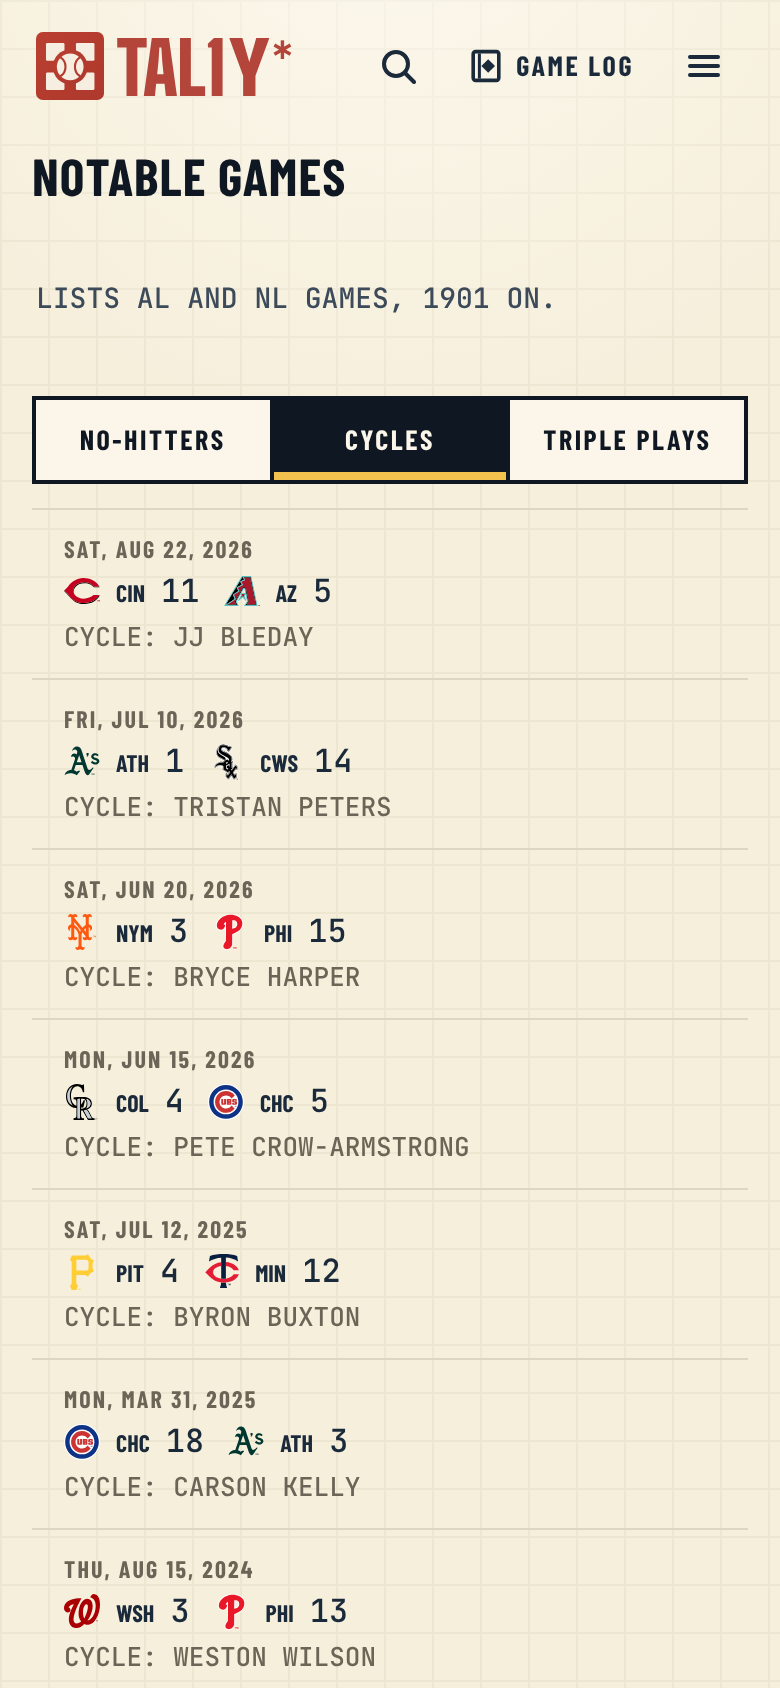
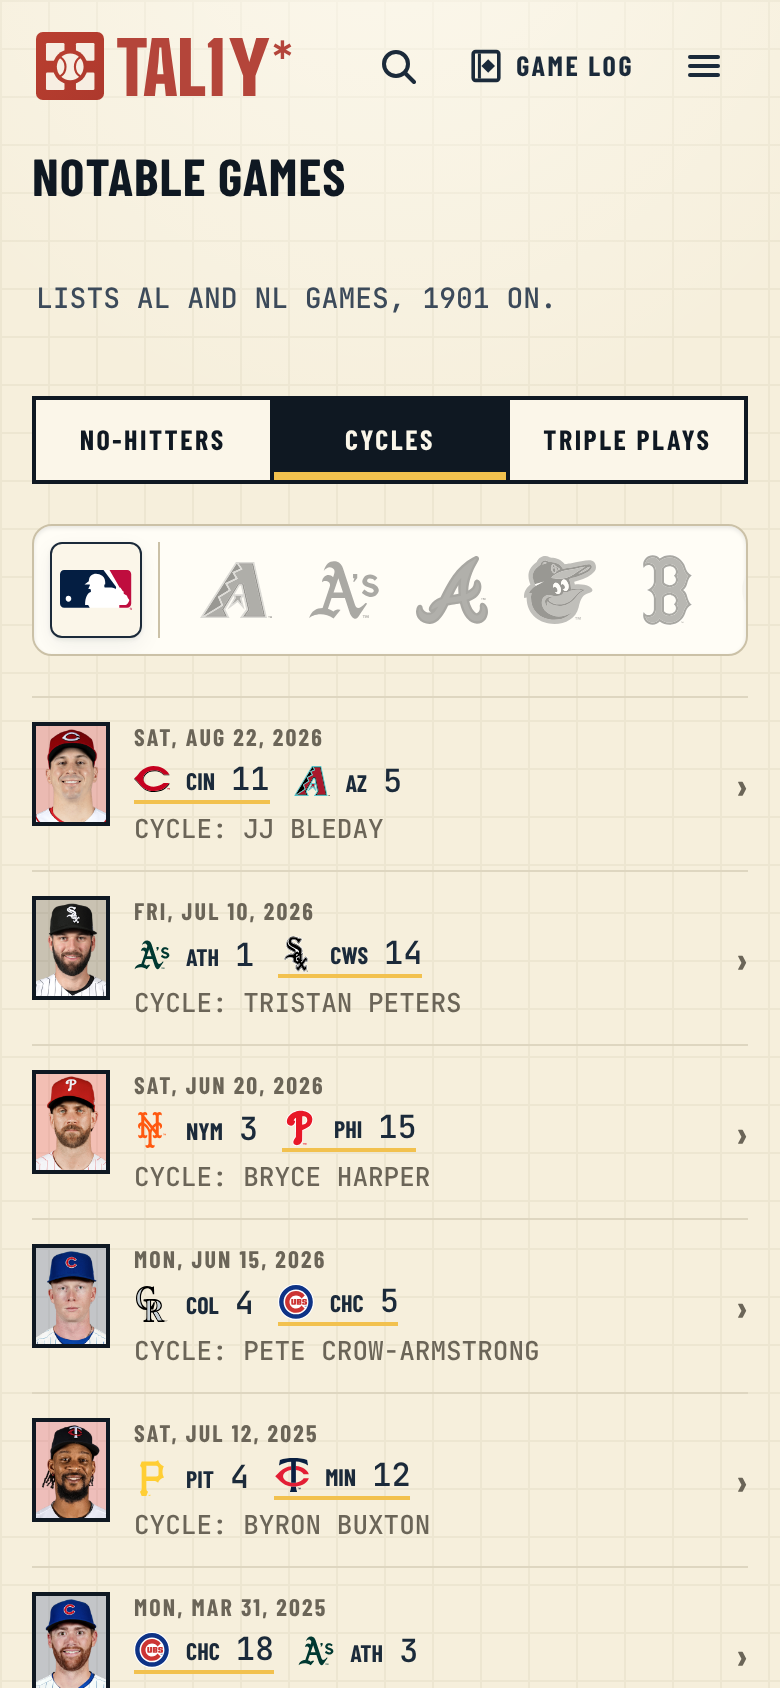
Notable games: one framed face per row with a +N tag, a centred club mark, a visible ›
The stacked faces were crushed into slivers and the triple play mark sat in the top of
its frame, because a more specific rule overrode its centring.

Claude-Session: https://claude.ai/code/session_017MCxTxfMwLXimpF6954uzu

Changed region(s): [[0.0308, 0.3081, 0.9538, 1.0], [0.6154, 0.7701, 0.6769, 0.8318], [0.5231, 0.955, 0.5538, 0.9858]]

diff --git a/src/styles/history/notable.css b/src/styles/history/notable.css
@@ -21,19 +21,17 @@ a.notable__row:active {
   background: var(--bg-canvas);
 }
 
-/* The slot: one face wide plus two 20px steps, so a three-arm no-hitter fans out inside it and
-   a one-face row leaves the same gap. Each later face lies under the one before. */
-.notable__faces {
-  display: flex;
+/* The slot: one face wide on every row, so the text beside it starts at one edge. A combined
+   no-hitter's other arms are a +N tag on the face. */
+.notable__face {
+  position: relative;
   flex: none;
   align-self: flex-start;
-  width: calc(var(--shot-xs-w) + 2 * var(--space-5));
+  width: var(--shot-xs-w);
+  height: var(--shot-xs-h);
 }
-.shot.notable__shot,
-.notable__crest.notable__shot {
+.shot.notable__shot {
   display: block;
-  flex: none;
-  position: relative;
   width: var(--shot-xs-w);
   height: var(--shot-xs-h);
   border: var(--bw-heavy) solid var(--border-stamped);
@@ -41,20 +39,27 @@ a.notable__row:active {
   background: var(--surface-inset);
   overflow: hidden;
 }
-.notable__shot + .notable__shot {
-  margin-left: calc(var(--space-5) - var(--shot-xs-w));
-}
-.notable__shot:nth-child(1) {
-  z-index: 3;
-}
-.notable__shot:nth-child(2) {
-  z-index: 2;
-}
-/* A triple play names no one: the club that turned it, in the same frame. */
+/* A triple play names no one: the club that turned it, centred in the same frame. Its own
+   rule, since .shot.notable__shot above is the more specific one. */
 .notable__crest {
+  box-sizing: border-box;
   display: flex;
   align-items: center;
   justify-content: center;
+  width: var(--shot-xs-w);
+  height: var(--shot-xs-h);
+  border: var(--bw-heavy) solid var(--border-stamped);
+  background: var(--surface-inset);
+}
+.notable__more {
+  position: absolute;
+  left: 0;
+  bottom: 0;
+  padding: 1px var(--space-1);
+  font-family: var(--font-mono);
+  font-size: var(--fs-cell);
+  color: var(--bg-canvas);
+  background: var(--border-stamped);
 }
 
 .notable__body {
@@ -85,7 +90,8 @@ a.notable__row:active {
 .notable__go {
   flex: none;
   font-family: var(--font-display);
-  font-size: var(--fs-title);
+  font-size: var(--fs-title-md);
+  line-height: var(--lh-solid);
   color: var(--text-caption);
 }
 
@@ -95,7 +101,7 @@ a.notable__row:active {
   /* layout-exempt: three named columns that line up from row to row */
   .notable__body {
     display: grid;
-    grid-template-columns: 11rem 16rem 1fr;
+    grid-template-columns: 9rem 14rem 1fr;
     align-items: center;
     column-gap: var(--space-4);
   }

diff --git a/src/screens/notable/NotablePage.jsx b/src/screens/notable/NotablePage.jsx
@@ -29,29 +29,28 @@ const TABS = {
   tripleplays: 'Triple plays',
 }
 const PAGE = 25
-// A combined no-hitter can name a dozen arms; the faces stop at three, the names stay in the line.
-const MAX_FACES = 3
 const ROLES = [
   { value: 'did', label: 'Did it' },
   { value: 'against', label: 'Done to them' },
   { value: 'either', label: 'Either' },
 ]
 
-// The slot at the row's left: the people it is about, stacked (a combined no-hitter fans out
-// up to three), or for a triple play, which names no one, the club that turned it. The slot is
-// one width for every row, so the text beside it starts at the same edge.
-function Faces({ row }) {
+// The slot at the row's left, one face wide on every row so the text beside it starts at the same
+// edge: the person the row is about (the first arm of a combined no-hitter, with a +N tag; every
+// name is in the line beside it), or for a triple play, which names no one, the club that turned it.
+function Face({ row }) {
+  const [lead] = row.players
+  const more = row.players.length - 1
   return (
-    <span className="notable__faces" aria-hidden="true">
-      {row.players.length > 0 ? (
-        row.players
-          .slice(0, MAX_FACES)
-          .map((p) => <Headshot key={p.id} personId={p.id} name={p.name} teamId={row.doerId} className="notable__shot" />)
+    <span className="notable__face" aria-hidden="true">
+      {lead ? (
+        <Headshot personId={lead.id} name={lead.name} teamId={row.doerId} className="notable__shot" />
       ) : (
         <span className="notable__shot notable__crest">
           <TeamLogo teamId={row.doerId} name="" size={28} />
         </span>
       )}
+      {more > 0 && <span className="notable__more">+{more}</span>}
     </span>
   )
 }
@@ -71,7 +70,7 @@ function Row({ row, linkProps }) {
   const did = (side) => row.doerId != null && side.id === row.doerId
   const body = (
     <>
-      <Faces row={row} />
+      <Face row={row} />
       <Stack gap="tight" className="notable__body">
         <span className="notable__when t-label">
           {humanDateWithYear(row.date)}
